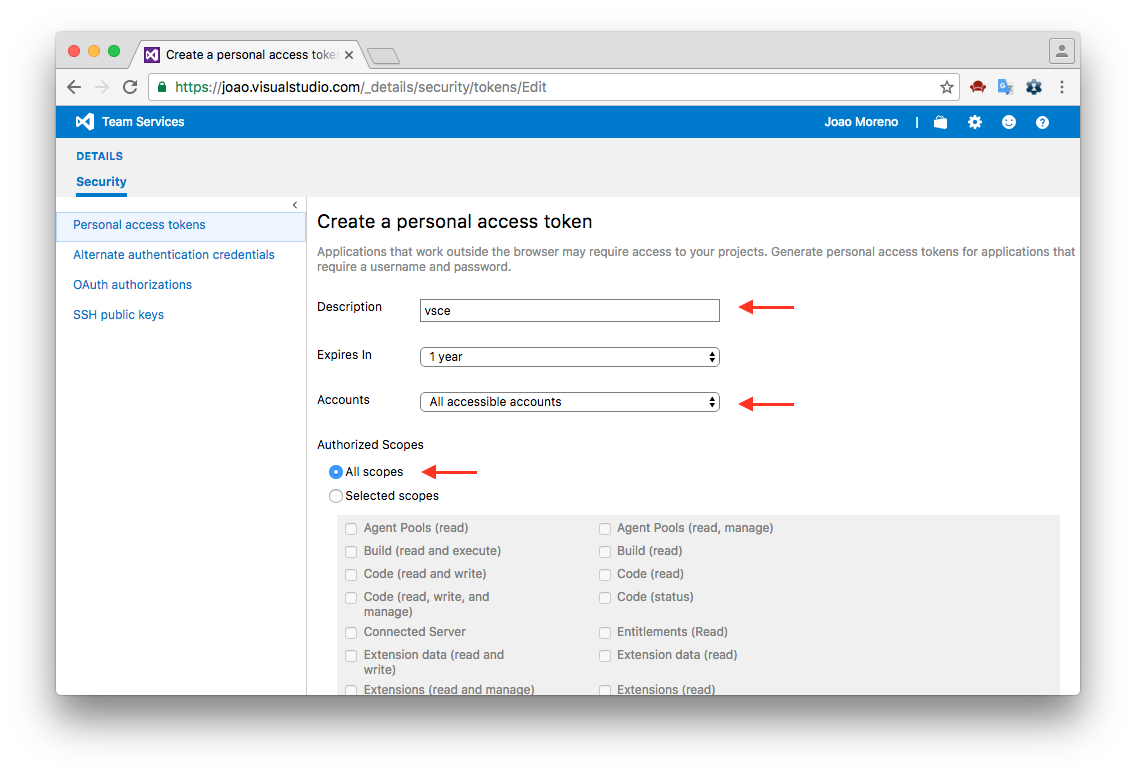
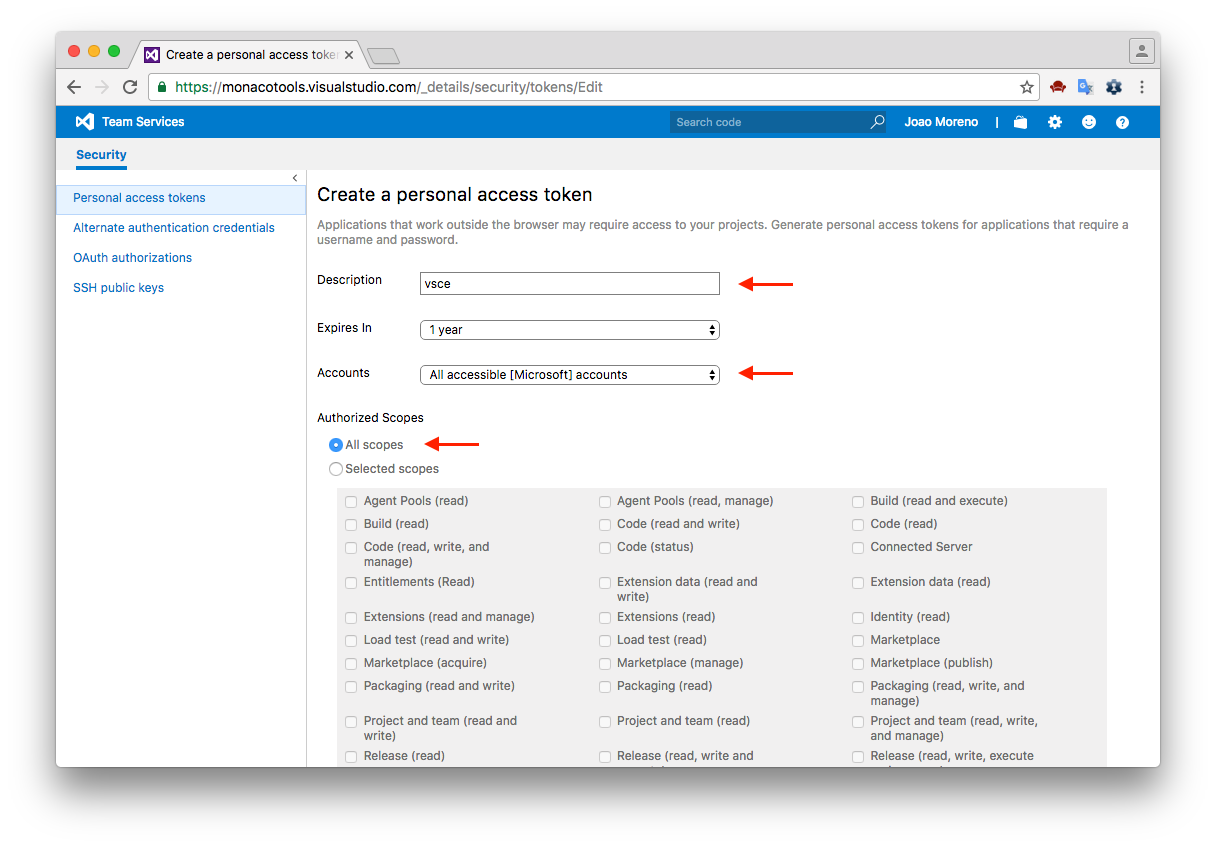
update vsce docs

diff --git a/docs/tools/vscecli.md b/docs/tools/vscecli.md
@@ -42,7 +42,7 @@ Visual Studio Code leverages [Visual Studio Team Services](https://www.visualstu
 
 First, make sure you have a [Visual Studio Team Services](https://www.visualstudio.com/en-us/get-started/setup/sign-up-for-visual-studio-online) account.
 
-In the following examples, the account name is `joao`. From your account's home page (in this example, `https://joao.visualstudio.com`), go to the **Security** page:
+In the following examples, the account name is `monacotools`. From your account's home page (eg: `https://monacotools.visualstudio.com`), go to the **Security** page:
 
 ![Security page](images/vscecli/publishers1.png)
 
